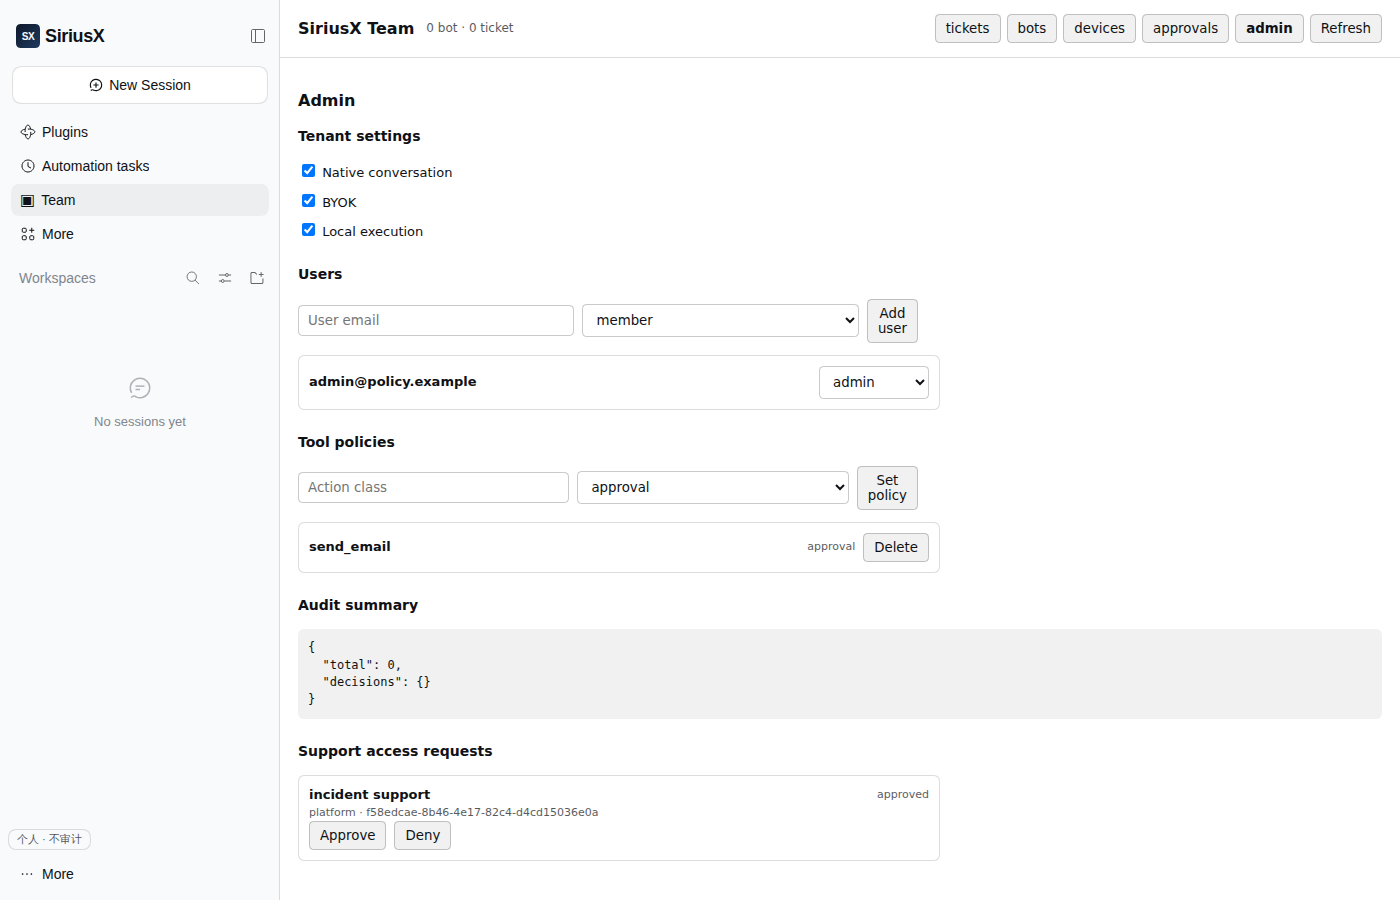
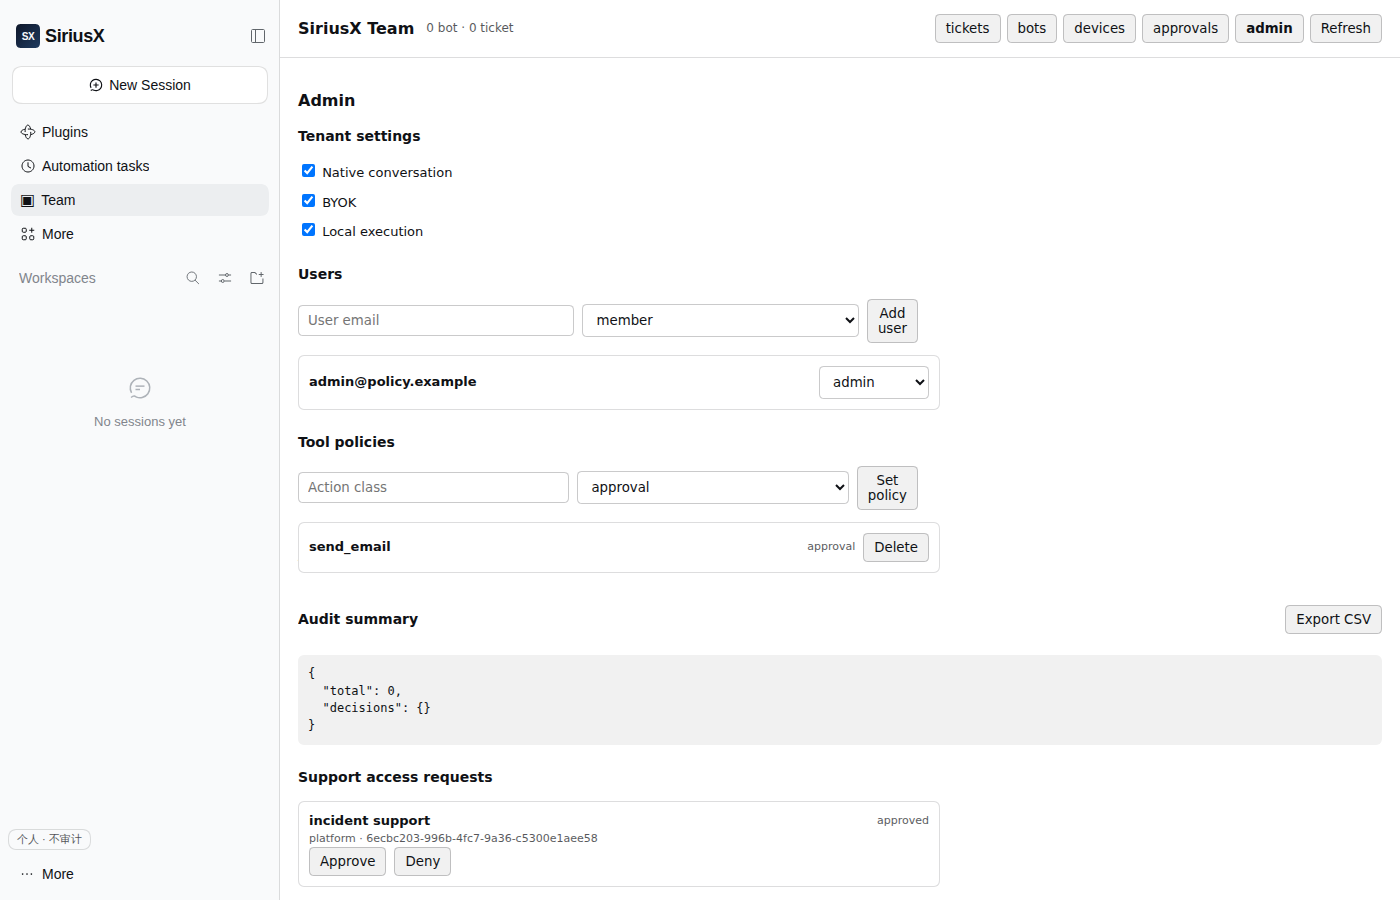
feat: export tenant audit logs as CSV

Changed region(s): [[0.215, 0.6533, 0.43, 0.9644], [0.6143, 0.8711, 0.6757, 0.9333], [0.9214, 0.6844, 0.9829, 0.7156]]

diff --git a/packages/client-ui-team-core/src/index.tsx b/packages/client-ui-team-core/src/index.tsx
@@ -39,6 +39,7 @@ function controlPath(path: string): string {
   if (path === '/api/settings') return '/v1/settings'
   if (path === '/api/tool-policies') return '/v1/tool-policies'
   if (path === '/api/audit-summary') return '/v1/audit-summary'
+  if (path.startsWith('/api/audit/export')) return path.replace(/^\/api/u, '/v1')
   if (path === '/api/support-requests') return '/v1/support-requests'
   return path.replace(/^\/api/, '/v1')
 }
@@ -301,6 +302,20 @@ function TicketPanel({ initialTab }: { initialTab: TeamTab }): ReactNode {
     } catch (cause) { setError(cause instanceof Error ? cause.message : String(cause)) } finally { setBusy(false) }
   }
 
+  const exportAudit = async (): Promise<void> => {
+    try {
+      const token = controlToken()
+      const response = await fetch(`${apiBase()}/v1/audit/export?format=csv`, { headers: token === undefined ? {} : { authorization: `Bearer ${token}` } })
+      if (!response.ok) throw new Error(`HTTP ${response.status}`)
+      const blob = await response.blob()
+      const link = document.createElement('a')
+      link.href = URL.createObjectURL(blob)
+      link.download = 'siriusx-audit.csv'
+      link.click()
+      URL.revokeObjectURL(link.href)
+    } catch (cause) { setError(cause instanceof Error ? cause.message : String(cause)) }
+  }
+
   const cancel = async (): Promise<void> => {
     if (selectedId === undefined) return
     setBusy(true)
@@ -493,7 +508,7 @@ function TicketPanel({ initialTab }: { initialTab: TeamTab }): ReactNode {
                   <div style={styles.row}><strong>{policy.actionClass}</strong><span style={{ ...styles.stage, marginLeft: 'auto' }}>{policy.effect}</span><button style={styles.button} disabled={busy} onClick={() => { void deleteToolPolicy(policy.actionClass) }}>Delete</button></div>
                 </div>
               ))}
-              <h3 style={{ fontSize: 14, marginTop: 22 }}>Audit summary</h3>
+              <div style={{ ...styles.row, marginTop: 22 }}><h3 style={{ fontSize: 14 }}>Audit summary</h3><button style={{ ...styles.button, marginLeft: 'auto' }} onClick={() => { void exportAudit() }}>Export CSV</button></div>
               {auditSummary === undefined ? <p style={{ opacity: 0.65 }}>Audit summary unavailable.</p> : <pre style={styles.report}>{JSON.stringify(auditSummary, undefined, 2)}</pre>}
               <h3 style={{ fontSize: 14, marginTop: 22 }}>Support access requests</h3>
               {supportRequests.length === 0 ? <p style={{ opacity: 0.65 }}>No support requests.</p> : null}

diff --git a/apps/control-plane/src/server.ts b/apps/control-plane/src/server.ts
@@ -559,6 +559,19 @@ document.getElementById('createTenant').onclick = async () => { try { await api(
         write(response, 200, { billing: control.getBilling(session.tenantId), estimate: control.billingEstimate(session.tenantId) })
         return
       }
+      if (request.method === 'GET' && url.pathname === '/v1/audit/export') {
+        if (toolGatewayUrl === undefined) throw new ControlPlaneError(503, 'TOOL_GATEWAY_UNAVAILABLE', 'tool gateway is not configured')
+        const upstream = await fetch(`${toolGatewayUrl}/v1/audit/export${url.search}`, { headers: { 'x-tenant-id': session.tenantId, 'x-user-id': session.userId, 'x-role': session.role } })
+        const body = Buffer.from(await upstream.arrayBuffer())
+        response.writeHead(upstream.status, {
+          'content-type': upstream.headers.get('content-type') ?? 'application/json; charset=utf-8',
+          ...(upstream.headers.get('content-disposition') === null ? {} : { 'content-disposition': upstream.headers.get('content-disposition')! }),
+          'content-length': body.byteLength,
+          'cache-control': 'no-store',
+        })
+        response.end(body)
+        return
+      }
       if (request.method === 'GET' && url.pathname === '/v1/audit-summary') {
         if (toolGatewayUrl === undefined) throw new ControlPlaneError(503, 'TOOL_GATEWAY_UNAVAILABLE', 'tool gateway is not configured')
         const upstream = await fetch(`${toolGatewayUrl}/v1/audit/summary`, { headers: { 'x-tenant-id': session.tenantId, 'x-user-id': session.userId, 'x-role': session.role } })

diff --git a/apps/tool-gateway/src/server.ts b/apps/tool-gateway/src/server.ts
@@ -146,6 +146,23 @@ export async function startToolGatewayServer(options: ToolGatewayServerOptions):
         write(response, 200, await gateway.decide(parts[2], body.approved, context))
         return
       }
+      if (request.method === 'GET' && url.pathname === '/v1/audit/export') {
+        if (context.role !== 'admin') throw new ToolGatewayError(403, 'ADMIN_REQUIRED', 'admin role required')
+        const rows = gateway.auditForTenant(context.tenantId) as Array<Record<string, unknown>>
+        if (url.searchParams.get('format') === 'csv') {
+          const columns = ['id', 'ticket_id', 'action_class', 'system', 'decision', 'approval_id', 'approver_id', 'created_at']
+          const escape = (value: unknown): string => {
+            const text = value === null || value === undefined ? '' : String(value)
+            return /[",\n]/u.test(text) ? `"${text.replace(/"/gu, '""')}"` : text
+          }
+          const csv = [columns.join(','), ...rows.map(row => columns.map(column => escape(row[column])).join(','))].join('\n') + '\n'
+          response.writeHead(200, { ...cors, 'content-type': 'text/csv; charset=utf-8', 'content-disposition': 'attachment; filename="siriusx-audit.csv"', 'cache-control': 'no-store' })
+          response.end(csv)
+          return
+        }
+        write(response, 200, { audit: rows })
+        return
+      }
       if (request.method === 'GET' && url.pathname === '/v1/audit/summary') {
         write(response, 200, gateway.auditSummary(context.tenantId))
         return

diff --git a/apps/tool-gateway/src/index.ts b/apps/tool-gateway/src/index.ts
@@ -303,6 +303,10 @@ export class ToolGateway {
     return { status: 'approved', result }
   }
 
+  auditForTenant(tenantId: string): unknown[] {
+    return (this.#db.prepare('SELECT * FROM audit WHERE tenant_id = ? ORDER BY created_at, rowid').all(tenantId) as Array<Record<string, unknown>>).map(row => ({ ...row }))
+  }
+
   auditSummary(tenantId: string): { total: number; decisions: Record<string, number> } {
     const rows = this.#db.prepare('SELECT decision, COUNT(*) AS count FROM audit WHERE tenant_id = ? GROUP BY decision').all(tenantId) as Array<{ decision: string; count: number }>
     const decisions: Record<string, number> = {}

diff --git a/apps/tool-gateway/tests/gateway.spec.ts b/apps/tool-gateway/tests/gateway.spec.ts
@@ -104,6 +104,9 @@ describe('tool gateway policy', () => {
     const verified = await fetch(`${server.url}/v1/audit/verify`, { headers }).then(response => response.json()) as { valid: boolean; checked: number }
     expect(verified).toMatchObject({ valid: true })
     expect(verified.checked).toBeGreaterThanOrEqual(2)
+    const exported = await fetch(`${server.url}/v1/audit/export?format=csv`, { headers })
+    expect(exported.headers.get('content-type')).toContain('text/csv')
+    expect(await exported.text()).toContain('approved:human')
   })
   it('detects tampering in the audit hash chain', async () => {
     const path = await db()

diff --git a/docs/status.md b/docs/status.md
@@ -8,7 +8,7 @@
 | S3 本机闭环 | `packages/executor-local`、`plugins/executor-local`、`apps/autobot` | `evidence/S3/` | **完成**：真实 DSH AgentLoop、Bot/DSH Web Host SIGKILL/重启、模型断线、previews/TTL/进程组清理/env 隔离/symlink 越界防护、lost 自动 resume 重试、sandbox orphan sweep + systemd timer 通过；tag `executor-v0.1.0` |
 | S4 工单界面 | 四个独立 client package + `packages/app-contract` + `apps/autobot/src/server.ts` | `evidence/S4/` | **部分**：发起/阶段/diff/排序/断线清空/审批/慢任务打断、四插件拆分通过；10 天自用待补 |
 | S5 登录/租户 | `plugins/account-sso`、`apps/control-plane`（含 device gateway/model gateway）、Desktop enterprise gate | `evidence/S5/` | **部分**：OIDC/隔离/配对/长连接/模型网关/隐私 badge/个人 Bot 派工/原生入口管理员开关、全栈离线一键安装、session TTL 过期拒绝、server-side revocation、server-side authority 通过；真实 IdP、KMS 待补 |
-| S6 工具网关 | `apps/tool-gateway`、`packages/analytics`、local_dir 上行过滤 | `evidence/S6/` | **部分**：审批过期 sweep/审计/fail-closed/分级/Bot 事件接线/完整 ticket trace + audit chain 状态 + tenant-scoped audit、管理面 API/UI + 平台运营 `/admin` + tenant quota enforcement、model catalog/binding/runtime enforcement、tenant tool policy/audit summary/platform audit、daily usage trend、tenant SSO/config editing、support access approval、tenant suspend/resume/billing estimate、source bindings/GitLab+GitHub+Feishu+Teams webhooks + auto-dispatch、tool-gateway 默认无 wildcard CORS、audit hash chain + verify endpoint/Vault KV v1+v2、TTL 轮换与 fail-closed 凭据适配、模型 key 抓包隔离、agent env/audit 凭据隔离、设备离线宽限 lost + 宽限期内重连恢复通过；真实 KMS/Vault 待补 |
+| S6 工具网关 | `apps/tool-gateway`、`packages/analytics`、local_dir 上行过滤 | `evidence/S6/` | **部分**：审批过期 sweep/审计/fail-closed/分级/Bot 事件接线/完整 ticket trace + audit chain 状态 + tenant-scoped audit、管理面 API/UI + 平台运营 `/admin` + tenant quota enforcement、model catalog/binding/runtime enforcement、tenant tool policy/audit summary/platform audit、daily usage trend、tenant SSO/config editing、support access approval、tenant suspend/resume/billing estimate、source bindings/webhooks + auto-dispatch、audit CSV export、tool-gateway 默认无 wildcard CORS、audit hash chain + verify endpoint/Vault KV v1+v2、TTL 轮换与 fail-closed 凭据适配、模型 key 抓包隔离、agent env/audit 凭据隔离、设备离线宽限 lost + 宽限期内重连恢复通过；真实 KMS/Vault 待补 |
 | S7 云执行 | `packages/cloud-executor`、`packages/kernel-acp` | `evidence/S7/` | **部分**：Docker/ACP/真实 dsh+pi（含 sandbox）/同工单内核一致性、本地/云端 DSH 事件序列一致性、ACP 边界/卷并发决策/云端 repo clone/沙箱 dispose/assignment timeout/资源限额+cap-drop/no-new-privileges+env+出口 allowlist/SQLite 恢复/GitHub/GitLab connector、gateway 审批写、mock Issue→MR 通过；真实平台 Issue→MR、M2 真崩溃待补 |
 | S8 发布 | `plugins/brand-siriusx`、`deploy/release`、`deploy/offline` | `evidence/S8/` | **部分**：品牌/图标/打包参数、Linux 全依赖离线 tar（含 sandbox image）、DSH Web 离线镜像、全栈 Compose、internal 网络隔离、断网 Debian 容器安装、native/Docker 单机安装、全栈离线一键包、health version/commit、`/ready` 就绪探针、Compose healthcheck、企业插件 bundle/资源清单、更新源 static feed（realpath 防 traversal）、本地发布门禁、脚本可移植性检查、发布清单、CycloneDX SBOM（transitive + license）+ license policy gate、补丁回移演练通过；mac/win 签名安装与全服务干净机验收待补 |
 | S9 Web | DSH Web Host + Team panel control-plane 模式 | `evidence/S9/` | **部分**：同插件复用、两租户隔离、HttpOnly cookie 同源网关、OIDC state cookie 绑定、浏览器 OIDC（本地 HS256/RS256 JWKS IdP）登录并看工单、同工单跨接入模式渲染一致、无原生对话/本地目录入口、Web 审批、HTTP/WS Origin 校验（支持 forwarded headers）、登录限流/trusted proxy IP、1 MiB 请求体/WS frame 上限、Secure cookie、login CSP/HSTS、local logout / OIDC RP-initiated logout、云端 repo URL 校验、项目发起/打断/重启对账/follow-up（API + Team UI，Docker+fake ACP）通过；真实企业 IdP/真实 agent 待补 |

diff --git a/TODO.md b/TODO.md
@@ -78,6 +78,7 @@
 - [x] GitLab webhook auto-dispatch → cloud ticket（Docker 验证）
 - [x] GitHub webhook HMAC + idempotent ingestion
 - [x] Feishu/Teams inbound webhook base（token + binding + idempotency）
+- [x] Tenant audit CSV export（tool-gateway + control-plane proxy + Admin UI）
 - [x] Web Gateway 支持 X-Forwarded-Proto/Host 的 HTTPS Origin
 - [x] Trusted proxy 下的登录限流按 X-Forwarded-For 区分客户端
 - [x] HTTPS 下返回 HSTS

diff --git a/evidence/S5/27-audit-export/README.md b/evidence/S5/27-audit-export/README.md
@@ -1,0 +1,10 @@
+# Tenant audit CSV export
+
+- tool-gateway `GET /v1/audit/export?format=csv`
+- 仅 admin
+- control-plane 代理 `/v1/audit/export`
+- Team Admin 增加 `Export CSV` 按钮
+- 测试验证 content-type=text/csv、包含 `approved:human`
+- 浏览器验证 Export CSV 按钮存在，console errors 为空
+
+证据：`test.txt`、`typecheck.txt`、`proxy-typecheck.txt`、`ui-typecheck.txt`、`../18-tool-policy-ui/policy.png`。
